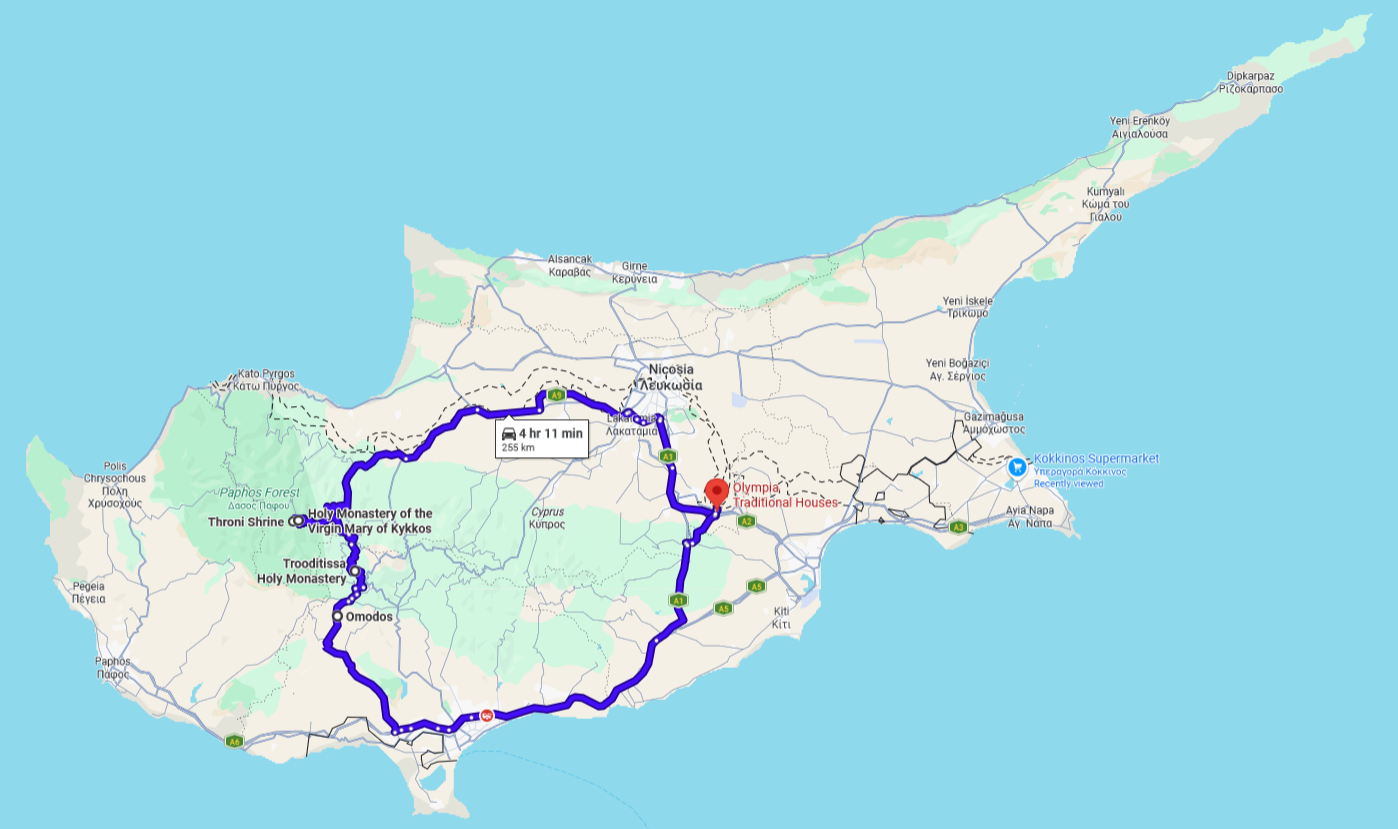
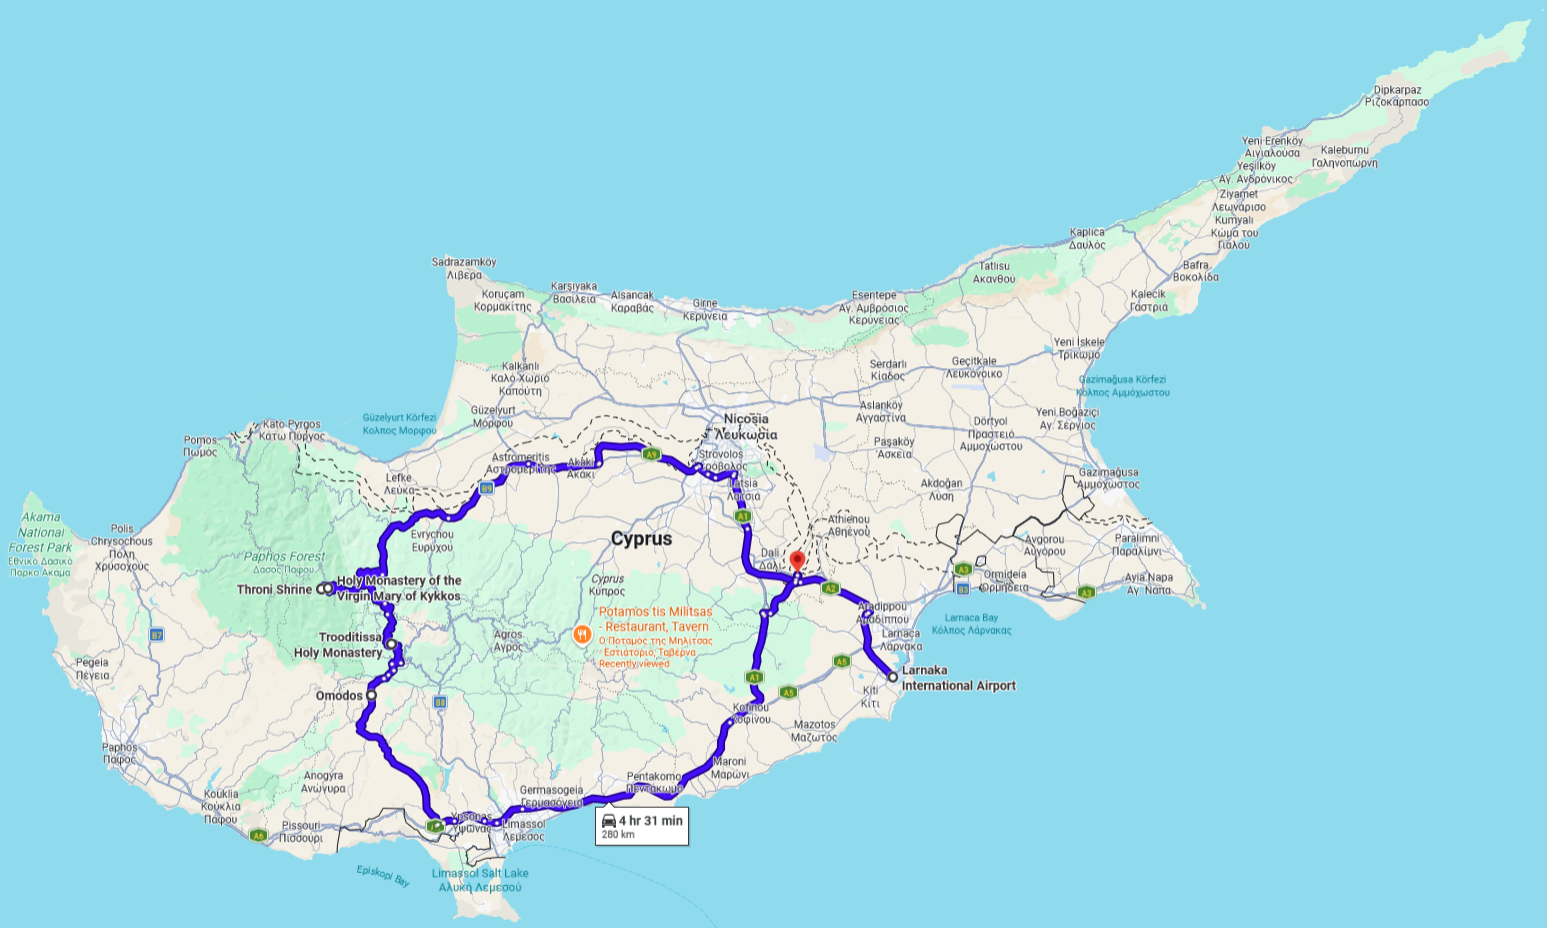
edit day-1 map

Changed region(s): [[0.0, 0.1206, 0.892, 0.9952], [0.8612, 0.0, 0.9843, 0.1508]]

diff --git a/index.html b/index.html
@@ -98,7 +98,7 @@
                                 <p>**Η Μονή Τροοδίτισας στο site της λέει πως κλείενει 18:00, σε αντίθεση με το maps που λέει 19:00 και με άλλη σελίδα που λέει 16:00. Πρέπει να πάρουμε τηλέφωνο να ρωτήσουμε (ΜΑΡΙΕ). Αν όντως κλείνει 18:00 πρέπει να κάτσουμε λιγότερο στην Μονή Κύκκου. Εννοείται πως ό,τι χρόνος έχουμε κερδίσει πιο πριν (από αεροδρόμιο, πράγματα κ.λ.π.) είναι υπέρ μας.**</p>
                                 <p>Τελευταία στάση το χωριό Όμοδος (25λ). Είναι όμορφο παραδοσιακό χωριό. Κάνουμε βόλτα και τρώμε εκεί. Θα έχει πάει αργά, οπότε ελπίζουμε πως στα μοναστήρια θα μας έχουν κεράσει και τίποτα (και καλό είναι να έχουμε μαζί σνακς). Έχει και στον Όμοδο ένα μοναστήρι του Τιμίου Σταυρού (γύρω από αυτό χτίστηκε το χωριό), αλλά θα το δούμε μόνο απ'έξω γιατί κλείνει νωρίς. Φεύγουμε για ξενοδοχείο (1ω20λ) όποτε θέλουμε.</p>
                             </program>
-                            <a href="https://maps.app.goo.gl/Pzy2sbNzASr5bTWj6">
+                            <a href="https://maps.app.goo.gl/sejDWzYDXED2tpUdA">
                                 <img src="images/day-1.png">
                                 <p>Click for Maps route link!</p>
                             </a>
